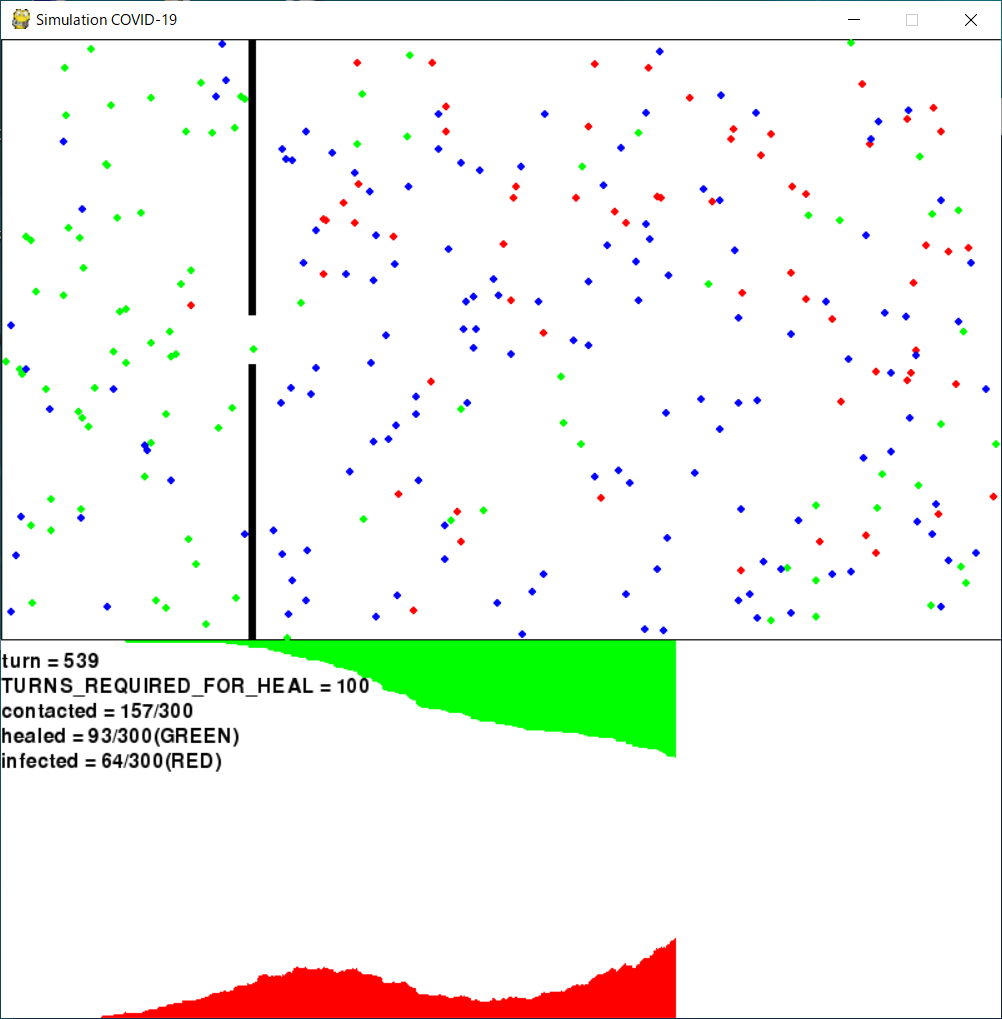
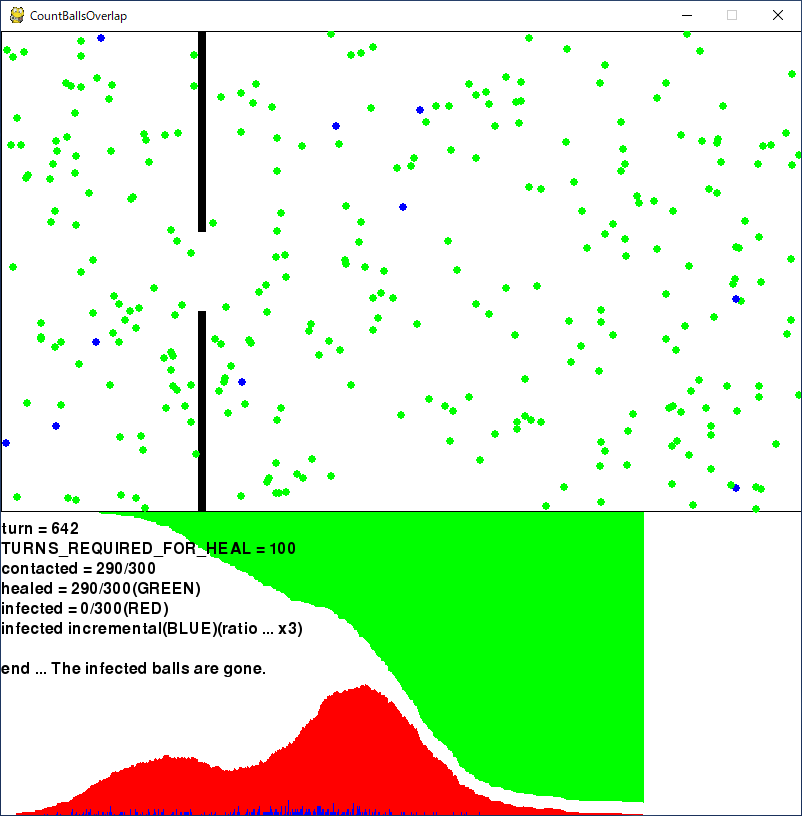
update ScreenShot

diff --git a/CountBallsOverlap.py b/CountBallsOverlap.py
@@ -236,7 +236,7 @@ def main():
 
     screen_size = (PARAMS.MAX_WIDTH, PARAMS.MAX_HEIGHT + PARAMS.RADIUS + PARAMS.CHART_HEIGHT)
     screen = pygame.display.set_mode(screen_size)
-    pygame.display.set_caption(u"Simulation COVID-19")
+    pygame.display.set_caption(u"CountBallsOverlap")
 
     # record start time.
     time_start = time.time()

diff --git a/README.md b/README.md
@@ -4,27 +4,31 @@ Count the number of times the balls overlap like a virus infection..
 
 This program is based on the following articles.
 
-Why outbreaks like coronavirus spread exponentially, and how to “flatten the curve”
+* Why outbreaks like coronavirus spread exponentially, and how to “flatten the curve”<br>
 [https://www.washingtonpost.com/graphics/2020/world/corona-simulator/](https://www.washingtonpost.com/graphics/2020/world/corona-simulator/)
+
+
+* CountBallsOverlap_by_JavaScript<br>
+[https://github.com/NobuyukiInoue/CountBallsOverlap_by_JavaScript](https://github.com/NobuyukiInoue/CountBallsOverlap_by_JavaScript)
 
 
 ## DEMO
 
 ```
-$ python CountBallsOverlap.py patterns/pattern_balls300_heal100_with_bar_height220.txt
+$ python CountBallsOverlap.py patterns.txt
 pygame 1.9.6
 Hello from the pygame community. https://www.pygame.org/contribute.html
 MAX_WIDTH = 800
 MAX_HEIGHT = 480
 MAX_BALLS = 300
-RADIUS = 3
+RADIUS = 4
 MOVEMENT = (-5, 5, 1)
 SLEEP_SEC = 0.000000
 CHART_HEIGHT = 300
 TURNS_REQUIRED_FOR_HEAL = 100
 RATIO_OF_BALLS_STOPPED = 0.0
 ENABLE_BAR = True
-BAR.POS_X = 200, BAR.HEIGHT = 220, BAR.WIDTH = 5
+BAR.POS_X = 200, BAR.HEIGHT = 200, BAR.WIDTH = 8
 
 turn:contact,infected,healed,remaining
 23:2,2,0,298
@@ -73,23 +77,25 @@ $ python3 -m pip install pygame --pre --user
 1. Prepare a pattern file.
 
 ```
-$ cat patterns/pattern_balls300_heal100_with_bar_height220.txt
+$ cat patterns.txt
 # This is pattern file.
 
-# start_wait = 10     # second.
+# start_wait = 10      # second.
 max_width = 800
 max_height = 480
 max_balls = 300
-radius = 2
+radius = 4
+movement = -5, 5, 1    # min, max, step
 # sleep_sec = 0.01
-bar = 200, 220, 5   # pos_x, bar_height, bar_width
+bar = 200, 200, 8      # pos_x, bar_height, bar_width
 heal = 100
+Ratio_of_balls_stopped = 0.0    # Between 0.0 and 1.0
 ```
 
 2. Exexute python script.
 
 ```
-$ python CountBallsOverlap.py patterns/pattern_balls300_heal100_with_bar_height220.txt
+$ python CountBallsOverlap.py patterns.txt
 ```
 
 
